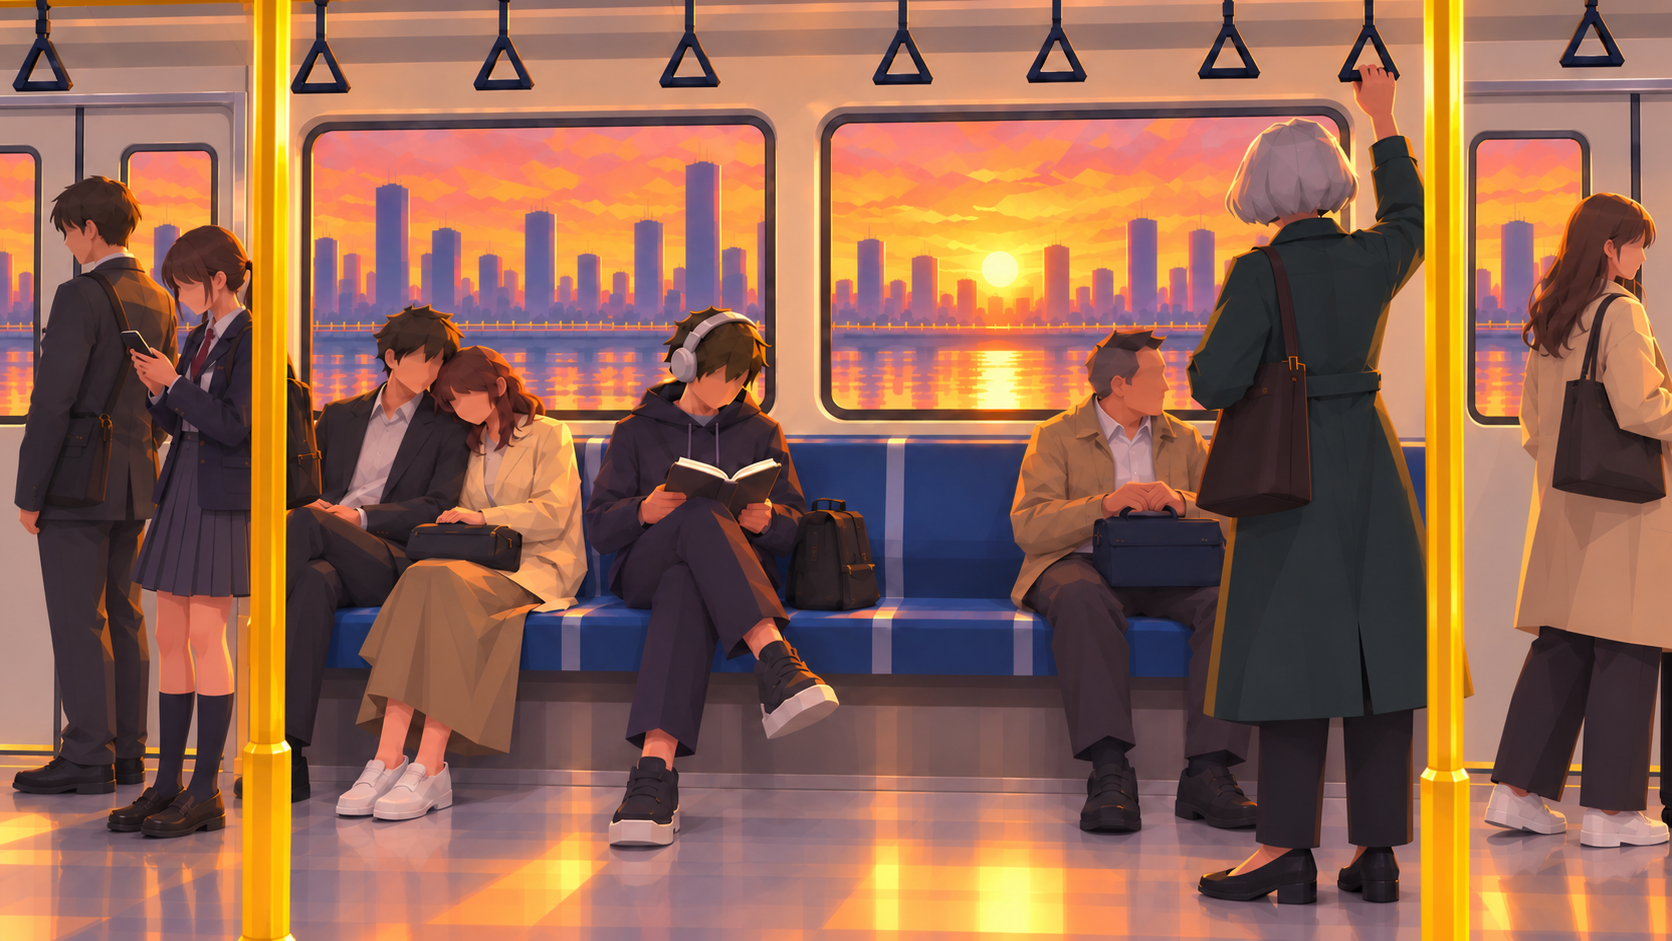
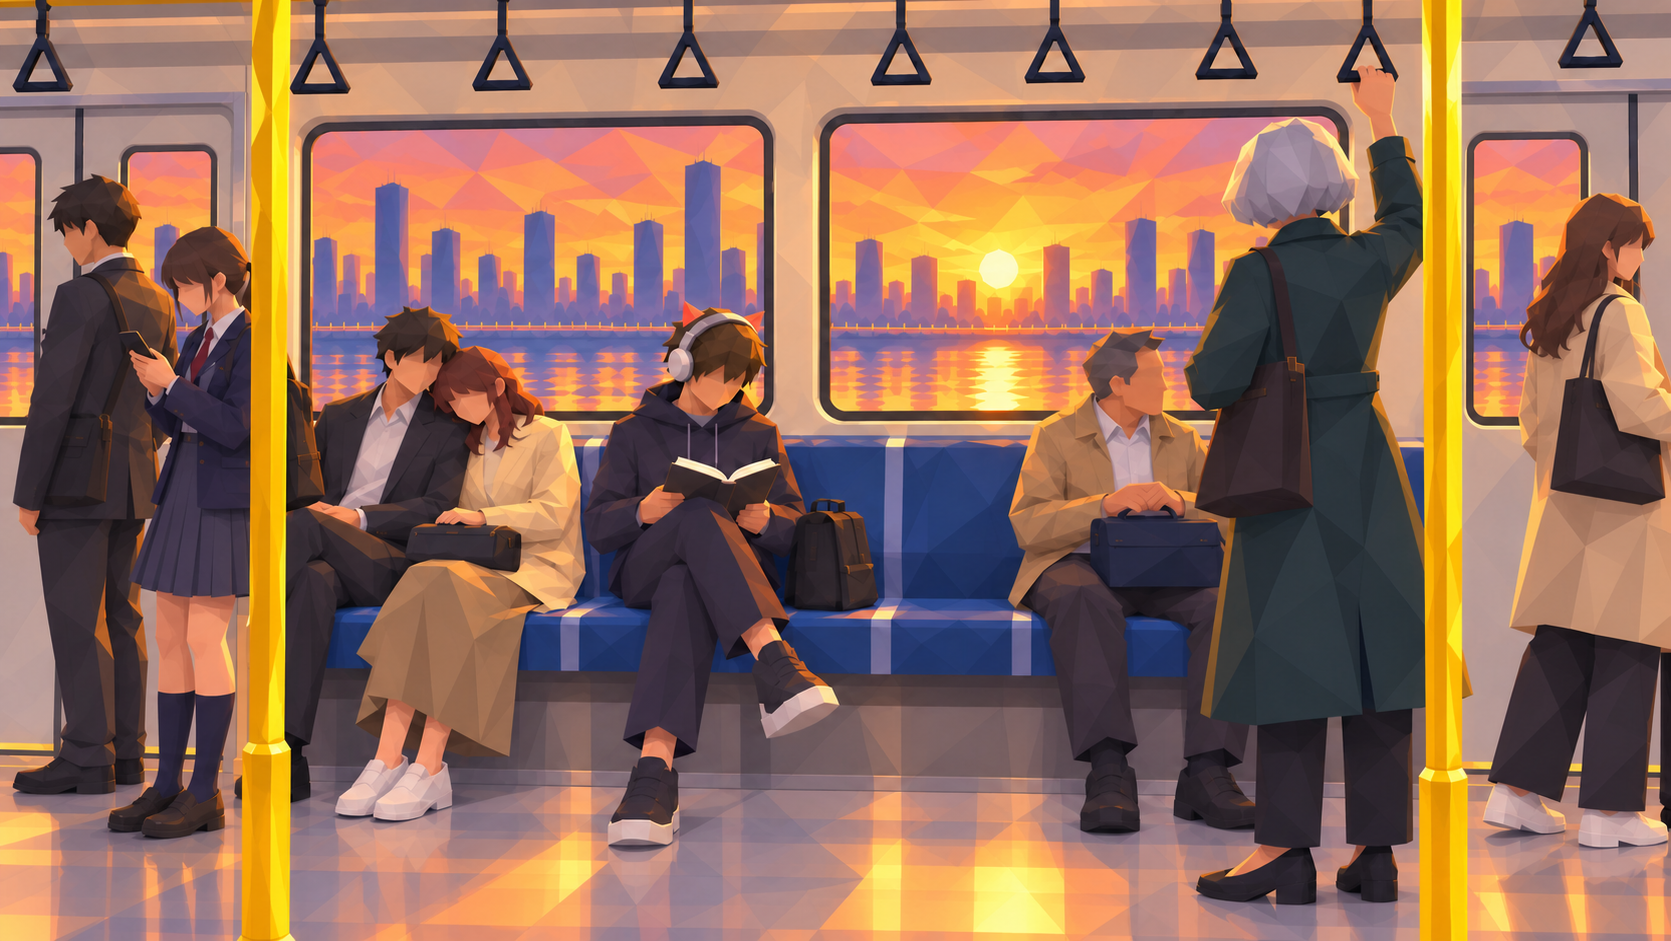
feat: refine metro entry art and arms

diff --git a/src/core/platformEntrySceneHandoff.css b/src/core/platformEntrySceneHandoff.css
@@ -80,7 +80,7 @@
   }
 
   .mf-entry-scene.is-home-bis-handoff .mf-entry-scene__phone-rig {
-    inset: auto 8% 0 auto;
+    inset: auto 26% 0 auto;
     width: 56.28dvh;
     height: 100dvh;
     will-change: transform;
@@ -107,6 +107,32 @@
 .mf-entry-scene.is-home-bis-handoff .mf-entry-scene__stage {
   overflow: visible;
 }
+
+.mf-entry-scene__arm-continuation {
+  --sleeve-a: #c7a4e6;
+  --sleeve-b: #a77dce;
+  --sleeve-c: #ddc6ef;
+  position: absolute;
+  z-index: 0;
+  left: 62%;
+  top: 70%;
+  width: 106%;
+  height: 42%;
+  pointer-events: none;
+  clip-path: polygon(0 10%,100% 36%,100% 100%,0 100%);
+  background:
+    linear-gradient(154deg,transparent 0 28%,rgba(255,255,255,.13) 29% 45%,transparent 46%),
+    linear-gradient(28deg,transparent 0 36%,rgba(20,12,28,.12) 37% 58%,transparent 59%),
+    linear-gradient(116deg,var(--sleeve-c) 0 28%,var(--sleeve-a) 29% 66%,var(--sleeve-b) 67% 100%);
+}
+
+.is-arm-02 .mf-entry-scene__arm-continuation { --sleeve-a:#eee8d8; --sleeve-b:#d4ccba; --sleeve-c:#faf6e9; }
+.is-arm-03 .mf-entry-scene__arm-continuation { --sleeve-a:#195cc1; --sleeve-b:#123b8c; --sleeve-c:#2b73dc; }
+.is-arm-04 .mf-entry-scene__arm-continuation { --sleeve-a:#46512d; --sleeve-b:#29321f; --sleeve-c:#606b3d; }
+.is-arm-05 .mf-entry-scene__arm-continuation { --sleeve-a:#c29ddd; --sleeve-b:#9870bc; --sleeve-c:#dbc1eb; }
+.is-arm-06 .mf-entry-scene__arm-continuation { --sleeve-a:#875d43; --sleeve-b:#5b392b; --sleeve-c:#a57758; }
+.is-arm-07 .mf-entry-scene__arm-continuation { --sleeve-a:#d20a31; --sleeve-b:#94051f; --sleeve-c:#ed234a; }
+.is-arm-08 .mf-entry-scene__arm-continuation { --sleeve-a:#ded8c8; --sleeve-b:#b9ad98; --sleeve-c:#f0ecdf; }
 
 .mf-entry-scene.is-home-bis-handoff .mf-entry-scene__city {
   display: none;

diff --git a/src/core/PlatformEntryScene.tsx b/src/core/PlatformEntryScene.tsx
@@ -128,6 +128,9 @@ const PHONE_SCREEN_QUAD = [
 function chooseArm() {
   if (typeof window === 'undefined') return ARM_VARIANTS[0]
 
+  const forcedVariant = new URL(window.location.href).searchParams.get('entryArm')
+  if (/^0[1-8]$/.test(forcedVariant ?? '')) return `${ASSET_ROOT}/arms/arm-${forcedVariant}.png`
+
   let previous = -1
   try {
     previous = Number(window.sessionStorage.getItem(ARM_STORAGE_KEY))
@@ -150,6 +153,7 @@ function chooseArm() {
 export function PlatformEntryScene({ onLaunch, handoff = 'default' }: PlatformEntrySceneProps) {
   const [entering, setEntering] = useState(false)
   const [arm] = useState(chooseArm)
+  const armVariant = arm.match(/arm-(\d{2})\.png$/)?.[1] ?? '01'
   const [metroCameraDistance] = useState(() => {
     if (typeof window === 'undefined') return '20'
     return new URL(window.location.href).searchParams.get('metroDistance') === '30' ? '30' : '20'
@@ -333,7 +337,8 @@ export function PlatformEntryScene({ onLaunch, handoff = 'default' }: PlatformEn
         {handoff === 'home-bis' && <span className="mf-entry-scene__handoff-blackout" aria-hidden="true" />}
 
         <div ref={phoneRigRef} className="mf-entry-scene__phone-rig" aria-hidden="true">
-          <div className="mf-entry-scene__hand-group">
+          <div className={`mf-entry-scene__hand-group is-arm-${armVariant}`}>
+            <span className="mf-entry-scene__arm-continuation" />
             <img className="mf-entry-scene__arm" src={arm} alt="" draggable={false} decoding="sync" />
             <ProjectiveDomSurface
               className="mf-entry-scene__phone-projective"

diff --git a/src/core/HomeBisLab.tsx b/src/core/HomeBisLab.tsx
@@ -285,6 +285,7 @@ export function HomeBisLab({ handoffArm = null }: HomeBisLabProps) {
   const item = HOME_BIS_GAMES[activeIndex]
   const game = labGames[activeIndex]
   const handoffCutout = handoffArm?.replace('/arms/', '/arms-screen-cutout/') ?? null
+  const handoffArmVariant = handoffArm?.match(/arm-(\d{2})\.png$/)?.[1] ?? '01'
   const previousItem = previousIndex === null ? null : HOME_BIS_GAMES[previousIndex]
   if (!game) return null
 
@@ -330,7 +331,8 @@ export function HomeBisLab({ handoffArm = null }: HomeBisLabProps) {
           </div>
         </div>
         {handoffCutout && (
-          <div className="mf-home-bis-handoff-rig" aria-hidden="true">
+          <div className={`mf-home-bis-handoff-rig is-arm-${handoffArmVariant}`} aria-hidden="true">
+            <span className="mf-entry-scene__arm-continuation" />
             <picture>
               <source srcSet={handoffCutout.replace('.png', '.webp')} type="image/webp" />
               <img src={handoffCutout} alt="" draggable={false} />

diff --git a/docs/PLATFORM_ENTRY_SCENES.md b/docs/PLATFORM_ENTRY_SCENES.md
@@ -117,9 +117,9 @@ The wide metro is a horizontal continuation of the validated portrait framing, n
 
 The preferred research direction uses the enlarging phone and hand as a natural foreground mask rather than a literal split screen or digital particle effect: the metro loses focus and exposure behind the device, warm desk light appears, then the bedroom resolves in its wake. Reduced motion uses a short background fade while keeping the phone fixed and readable.
 
-The selected metro composition is `/assets/generated/platform/entry-scenes/metro-sunset/camera-distance-20.png`, validated on 12 September 2026. It advances the camera 20% toward the opposite bench while preserving the measured carriage perspective, central windows, aisle poles, door geometry and passenger placement. The 30% study remains an interchangeable alternate selected with `metroDistance=30`; the default stays 20% until another explicit decision.
+The selected metro composition is `/assets/generated/platform/entry-scenes/metro-sunset/camera-distance-20.png`, validated on 12 September 2026 and then corrected for stronger low-poly consistency. It advances the camera 20% toward the opposite bench while preserving the measured carriage perspective, central windows, aisle poles, door geometry and passenger placement. The reader's headset has two restrained coral Fuggy-ear fins; it remains an ordinary headset and does not reproduce the mascot face or logo. The 30% study remains an interchangeable alternate selected with `metroDistance=30`; the default stays 20% until another explicit decision.
 
-The player reads as seated, Fuggy is absent from the bench, and the existing MiniFugg arm/phone layer remains the continuous foreground object. The same wide plate is cover-cropped on complete screens rather than replaced with a separately composed portrait scene. The current runtime derivative is lossless WebP with a PNG fallback. A restrained moving floor reflection provides the first ambient production slice. Genuine three-plane parallax still requires separate foreground player/poles, middle carriage/passengers and exterior-city assets; the flattened approved plate is not treated as if it already contained those layers.
+The player reads as seated, Fuggy is absent from the bench, and the existing MiniFugg arm/phone layer remains the continuous foreground object. On extended screens the resting phone sits between the reader and the older traveler. All eight arm variants use the same structural sleeve-continuation layer, colored per original outfit, so the arm exits the right viewport instead of ending inside it. The same wide plate is cover-cropped on complete screens rather than replaced with a separately composed portrait scene. The current runtime derivative is lossless WebP with a PNG fallback. A restrained moving floor reflection provides the first ambient production slice. Genuine three-plane parallax still requires separate foreground player/poles, middle carriage/passengers and exterior-city assets; the flattened approved plate is not treated as if it already contained those layers.
 
 The hand proves object continuity during the approach, then fades out immediately after the live extended scene has taken over. This avoids leaving enlarged fingers over the readable magazine and gameplay viewport.
 

diff --git a/docs/DA_WELCOME.md b/docs/DA_WELCOME.md
@@ -34,7 +34,9 @@ Le cadrage portrait validé reste une sous-partie exacte du décor large : on pr
 
 Dans la scène métro retenue, Fuggy ne doit plus être assis sur le banc. Le point de vue doit identifier immédiatement le joueur comme assis et placer le lecteur en face de lui avec une posture crédible. Le bras visible est continu depuis le bord du cadre jusqu'au poignet. La composition large doit rester exploitable en trois plans séparables — premier plan du joueur, intérieur et passagers, extérieur par les fenêtres — afin de permettre un parallaxe à vitesses distinctes.
 
-Le cadrage validé le 12 septembre 2026 avance la caméra de 20 % vers la banquette opposée. Sa source est `public/assets/generated/platform/concepts/metro-geometry-v2/06-camera-moins-20.png` et son dérivé runtime est `public/assets/generated/platform/entry-scenes/metro-sunset/camera-distance-20.webp`. La version 30 % reste une alternative de réglage ; elle ne remplace pas la valeur active sans nouvelle décision. Le même asset large est recadré sur les écrans complets.
+Le cadrage validé le 12 septembre 2026 avance la caméra de 20 % vers la banquette opposée. Sa source corrigée est `public/assets/generated/platform/concepts/metro-geometry-v2/08-rendu-lowpoly-casque-fuggy.png` et son dérivé runtime est `public/assets/generated/platform/entry-scenes/metro-sunset/camera-distance-20.webp`. Toute la rame et tous les personnages gardent des volumes clairement facettés. Le lecteur porte un casque normal muni de deux petites oreilles corail inspirées de Fuggy, sans visage ni logo de mascotte. La version 30 % reste une alternative de réglage ; elle ne remplace pas la valeur active sans nouvelle décision. Le même asset large est recadré sur les écrans complets.
+
+Sur écran étendu, le téléphone au repos se place entre le lecteur au casque et le voyageur plus âgé. Les huit bras d'entrée utilisent leurs assets d'origine inchangés, complétés par une continuation de manche facettée et assortie qui sort du bord droit. Le prolongement fait partie du rig commun afin qu'aucune variante ne se termine au milieu de l'image.
 
 La surface du téléphone doit suivre exactement son cadrage et sa perspective. Écran, bras et téléphone partagent les transformations utiles ; ne pas superposer un rectangle approximatif qui glisse séparément. Prévoir les occultations par la main, le cadre et les limites du zoom.
 

diff --git a/progress.md b/progress.md
@@ -74,3 +74,4 @@ Final illustrated QA: six configurations, amber hover/leave, disabled restoratio
 
 2026-09-07 — Politique Alpha Core : allocation renouvelable portée à 500 coins/jour, avec migration des portefeuilles locaux du jour qui conserve les dépenses et les coins durables. Toutes les variantes de cover existantes sont déverrouillées et sélectionnables pendant l’Alpha ; les seuils restent conservés pour la progression future. Vérifié sur TetraMindFck à score 0 : 3/3 covers actives, variante à 15 000 sélectionnée, débit de partie 500→498, aucune erreur navigateur.
 2026-09-12 — Scène métro rapprochée : le cadrage caméra −20 % est désormais la plaque active du pilote `home-bis&entry=1`, avec `metroDistance=30` comme alternative sans changement de raccord. Même composition recadrée sur écran complet, dérivés WebP lossless avec repli PNG, main/téléphone Core conservés et main de raccord retirée après l’arrivée. Réflexion lumineuse de sol ajoutée ; le vrai parallaxe reste à produire depuis trois couches artistiques séparées. Build et captures desktop/mobile/repos/arrivée vérifiés.
+2026-09-12 — Correction Welcome : la plaque −20 % est renforcée en low-poly et le casque du lecteur reçoit deux oreilles corail Fuggy. Sur PC, le téléphone repose entre le lecteur et le voyageur plus âgé. Un premier outpaint de bras a produit un faux damier et a été rejeté ; les huit bras sont finalement prolongés jusqu'au bord droit par une manche facettée commune dont la palette suit chaque variante, sans altérer les mains et téléphones sources. PNG/WebP contrôlés, build réussi, huit variantes et raccord final vérifiés sans erreur console.
